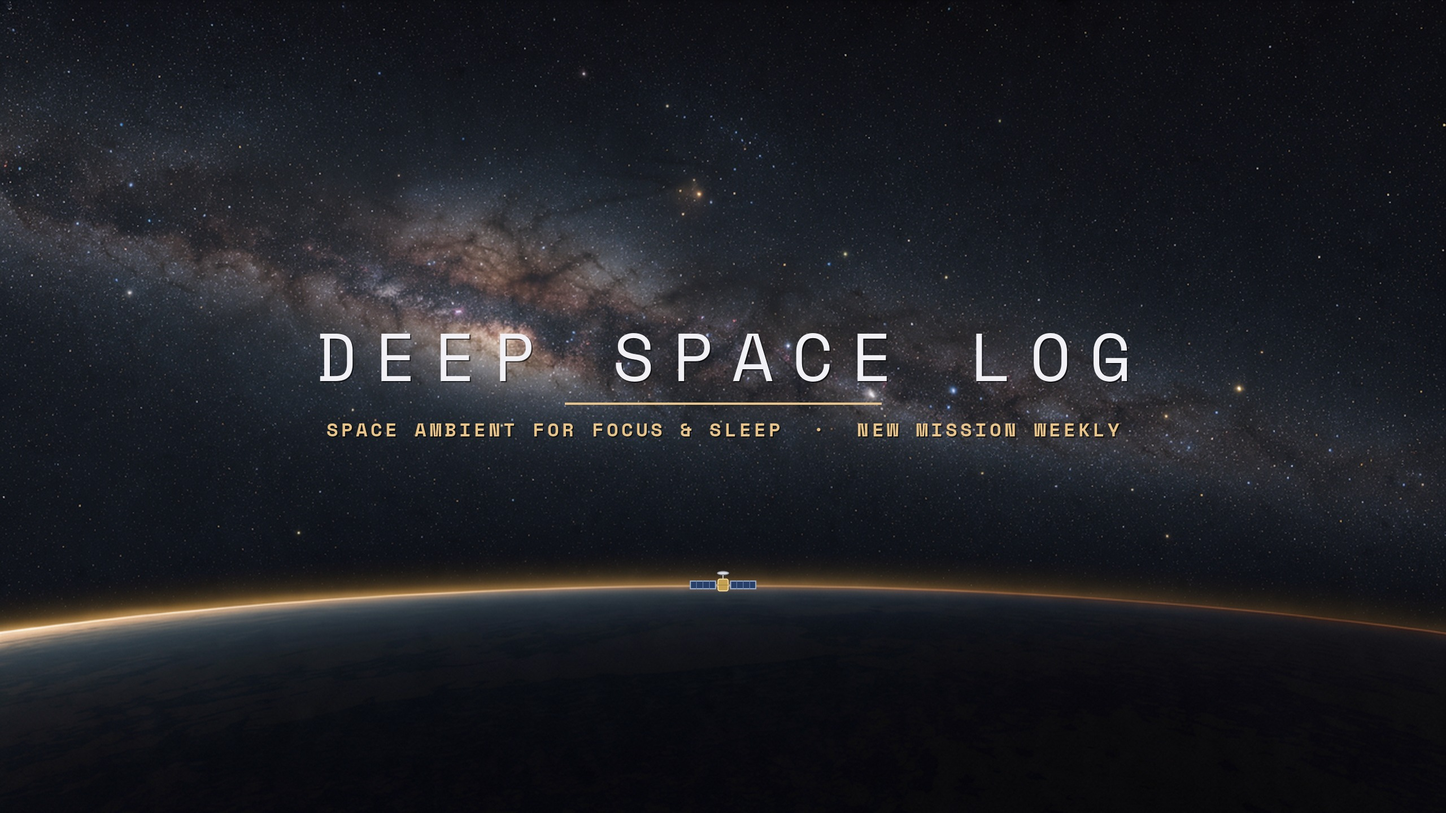
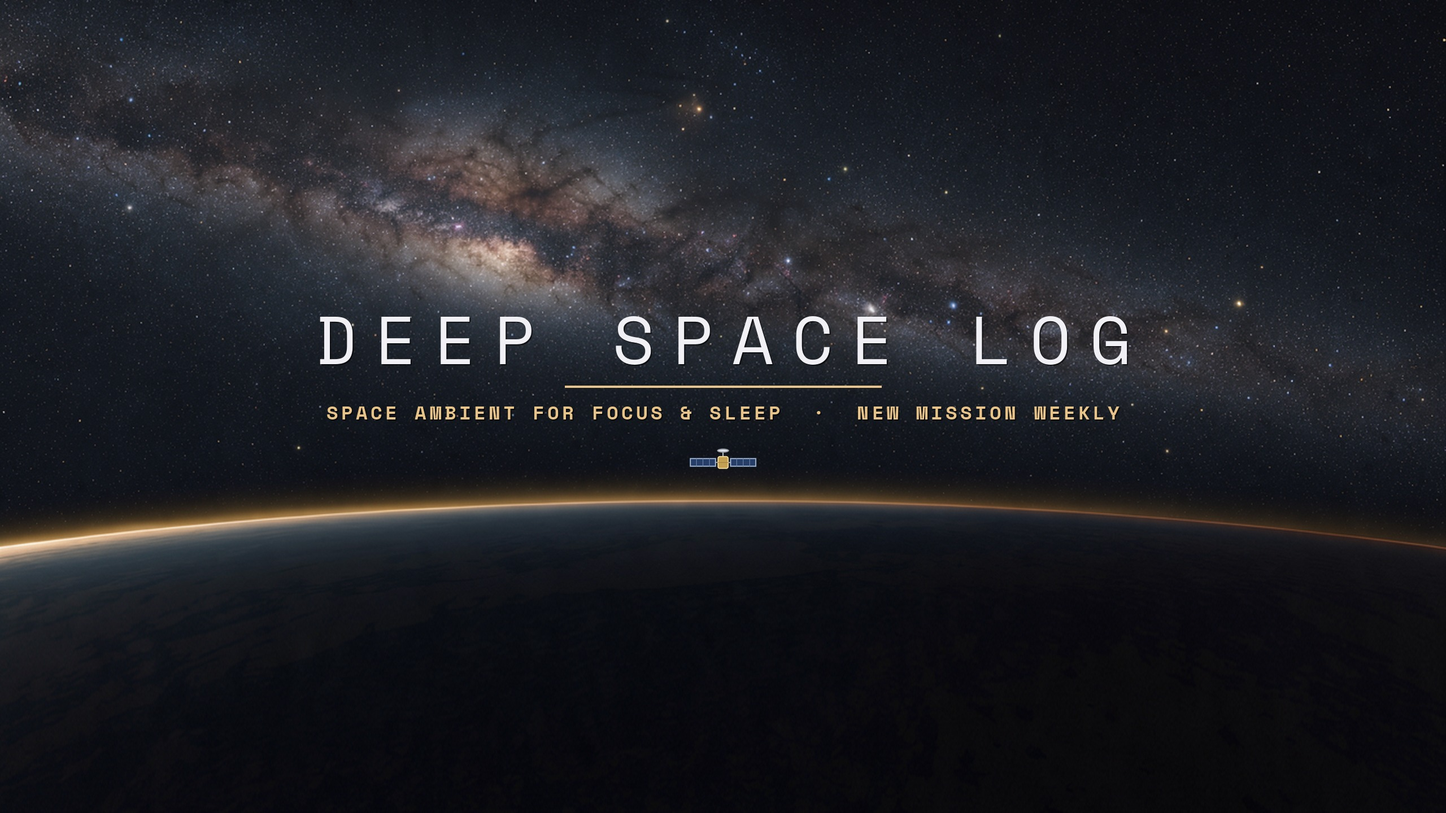
Deep Space Log: marka kiti denetimden geçti (G16, tur 2)
Tur 1 KALDI: filigranda PROBE-7 kesiliyordu, banner'da maskot ve ufuk görünen bandın dışındaydı, durum denetimden önce onaylandi yazıyordu. Marka tasarımcısı düzeltti; yeni denetçi tur 2'de GEÇTİ verdi (istasyon_marka.json). Sahibin onayı kit değiştiği için yeniden alınacak. Testler: 439 passed.

Claude-Session: https://claude.ai/code/session_014GmLB823RuZ5ABanAf1Sqd

Changed region(s): [[0.0, 0.0938, 1.0, 0.8438], [0.0, 0.0, 0.1875, 0.125], [0.4688, 0.125, 0.5, 0.1562]]

diff --git a/deepspace/marka_kiti.py b/deepspace/marka_kiti.py
@@ -19,6 +19,11 @@ from .sahne import probe_sprite
 KAYNAK = KOK / "marka" / "kaynak" / "A2.png"
 ALT_YAZI = "SPACE AMBIENT FOR FOCUS & SLEEP  ·  NEW MISSION WEEKLY"
 GUVENLI_ALAN = (1546, 423)  # YouTube banner'ında her cihazda görünen orta alan (2560x1440 içinde)
+# Banner kaynağı: ufuk kemeri güvenli banda girsin diye görsel yukarı kaydırılır (kaynağın 765 satırında 80 satır);
+# alttaki boşluk ufkun altındaki karanlık zeminin (640. satırdan sonrası) dikey esnetilmesiyle dolar.
+BANNER_KAYDIR, BANNER_ZEMIN = 80 / 765, 640 / 765
+BANNER_BASLIK_Y, BANNER_PROBE_Y, BANNER_PROBE_BOY = 510, 812, 70
+FILIGRAN_HALKA, FILIGRAN_PROBE = (6, 144), 68  # PROBE-7'nin panel uçları halkanın iç kenarından ~6 px içeride
 
 
 def _filtrele(img: Image.Image) -> Image.Image:
@@ -52,10 +57,21 @@ def _kirp_169(img: Image.Image) -> Image.Image:
     return img.crop((0, 0, W, min(H, h)))
 
 
+def _banner_kaynak(ana: Image.Image) -> Image.Image:
+    """16:9 kaynak, ufuk yukarıda: üstten BANNER_KAYDIR kırpılır, ufkun altındaki zemin esnetilerek boy korunur."""
+    k = _kirp_169(ana)
+    W, H = k.size
+    ust, kes = round(H * BANNER_KAYDIR), round(H * BANNER_ZEMIN)
+    yeni = Image.new("RGB", (W, H))
+    yeni.paste(k.crop((0, ust, W, kes)), (0, 0))
+    yeni.paste(k.crop((0, kes, W, H)).resize((W, H - (kes - ust)), Image.LANCZOS), (0, kes - ust))
+    return yeni
+
+
 def banner(ana: Image.Image) -> Image.Image:
-    b = _filtrele(_kirp_169(ana).resize((2560, 1440), Image.LANCZOS)).convert("RGBA")
-    _baslik(b, "DEEP SPACE LOG", ALT_YAZI, 540, 120, 34, 560)
-    probe_ekle(b, 2560 * 0.5, 1440 * 0.715, 70)
+    b = _filtrele(_banner_kaynak(ana).resize((2560, 1440), Image.LANCZOS)).convert("RGBA")
+    _baslik(b, "DEEP SPACE LOG", ALT_YAZI, BANNER_BASLIK_Y, 120, 34, 560)
+    probe_ekle(b, 2560 * 0.5, BANNER_PROBE_Y, BANNER_PROBE_BOY)
     return b
 
 
@@ -74,9 +90,10 @@ def filigran() -> Image.Image:
     """150x150 şeffaf video filigranı: PROBE-7 ve ince kehribar halka."""
     m = marka_yukle()["palet"]
     f = Image.new("RGBA", (150, 150), (0, 0, 0, 0))
-    ImageDraw.Draw(f).ellipse([6, 6, 144, 144], fill=(*rgb(m["arka"]), 150), outline=(*rgb(m["vurgu"]), 230),
+    a, z = FILIGRAN_HALKA
+    ImageDraw.Draw(f).ellipse([a, a, z, z], fill=(*rgb(m["arka"]), 150), outline=(*rgb(m["vurgu"]), 230),
                               width=3)
-    probe_ekle(f, 75, 75, 96)
+    probe_ekle(f, 75, 75, FILIGRAN_PROBE)
     return f
 
 

diff --git a/tests/test_deepspace.py b/tests/test_deepspace.py
@@ -1129,6 +1129,36 @@ def test_G16_kanal_kiti_kaynak_gorselden(tmp_path):
     assert (tmp_path / "banner.jpg").stat().st_size < 6 * 1024 * 1024  # YouTube banner sınırı
 
 
+def test_G16_filigran_probe_halkada_kenarlar_seffaf():
+    from PIL import Image
+    from deepspace import marka_kiti
+    a = np.asarray(marka_kiti.filigran())[..., 3]
+    assert max(a[0].max(), a[-1].max(), a[:, 0].max(), a[:, -1].max()) == 0  # kenarda kesilme yok
+    p = Image.new("RGBA", (150, 150), (0, 0, 0, 0))
+    marka_kiti.probe_ekle(p, 75, 75, marka_kiti.FILIGRAN_PROBE)
+    ys, xs = np.nonzero(np.asarray(p)[..., 3] > 0)
+    ic_r = (marka_kiti.FILIGRAN_HALKA[1] - marka_kiti.FILIGRAN_HALKA[0]) / 2 - 3
+    assert np.hypot(xs + 0.5 - 75, ys + 0.5 - 75).max() <= ic_r - 3  # panel uçları halkanın içinde
+
+
+def test_G16_banner_yazi_probe_ve_ufuk_gorunen_bantta():
+    from PIL import Image
+    from deepspace import marka_kiti
+    gx, gy = marka_kiti.GUVENLI_ALAN
+    x0, y0, x1, y1 = (2560 - gx) / 2, (1440 - gy) / 2, (2560 + gx) / 2, (1440 + gy) / 2
+    for ciz in (lambda k: marka_kiti._baslik(k, "DEEP SPACE LOG", marka_kiti.ALT_YAZI, marka_kiti.BANNER_BASLIK_Y,
+                                             120, 34, 560),
+                lambda k: marka_kiti.probe_ekle(k, 1280, marka_kiti.BANNER_PROBE_Y, marka_kiti.BANNER_PROBE_BOY)):
+        k = Image.new("RGBA", (2560, 1440), (0, 0, 0, 0))
+        ciz(k)
+        ys, xs = np.nonzero(np.asarray(k)[..., 3] > 0)
+        assert xs.min() >= x0 and xs.max() <= x1 and ys.min() >= y0 and ys.max() <= y1
+    ana = Image.open(KOK / "deepspace" / "marka" / "kaynak" / "A2.png").convert("RGB")
+    L = np.asarray(marka_kiti._banner_kaynak(ana).resize((2560, 1440)).convert("L"), float)
+    ufuk = 700 + int(L[700:1200, 1280].argmax())  # ufuk kemerinin parlak kenarı, ortada
+    assert marka_kiti.BANNER_PROBE_Y < ufuk <= y1
+
+
 def test_G15_komut_kilidi_cikis_3(tmp_path, monkeypatch, capsys):
     from deepspace import gorev as cli, is_kaydi
     monkeypatch.setattr(cli, "gorev_yukle", lambda k: (_gorev(tmp_path, no=2), AYAR))

diff --git a/deepspace/marka/README.md b/deepspace/marka/README.md
@@ -1,6 +1,7 @@
 # Deep Space Log marka kiti (G16)
 
-Sahibi 11 Kasım 2026'da onayladı. Renk seçimi bize bırakıldı: **A, film tonu yok** (`marka.toml [filtre] secim = ""`).
+Durum: denetimde. Sahibi 11 Kasım 2026'da taslağı onayladı; kesin kayıt denetçi GEÇTİ'den sonra `gorev marka --onay`
+ile yapılır. Renk seçimi bize bırakıldı: **A, film tonu yok** (`marka.toml [filtre] secim = ""`).
 Kehribar (`#e8c48a`) yalnız vurgu: başlık altı çizgi ve etiket.
 
 | Dosya | Ne | Kullanım |
@@ -15,5 +16,9 @@ Kehribar (`#e8c48a`) yalnız vurgu: başlık altı çizgi ve etiket.
 - Kapak şablonu (`yazi.kapak_katmani`, `marka.toml [sablon]`): ortada harf aralıklı ince başlık (Space Mono), kehribar
   çizgi ve kalın kehribar etiket, gökte küçük PROBE-7. 3 düzen: başlık üstte, başlık altta, etiket önde. En fazla 3
   kelime (G7): başlık seri adı (`DEEP FOCUS`), etiket süre (`2H`). Hedef adı ve görev numarası video başlığındadır.
+- Bilinen sınırlama: kapaktaki etiket (`2H`, 22 px) 168x94 önizlemede ~2 px kalır, orada okunmaz; şablon
+  değişikliği ayrı bir iş.
+- Banner: ufuk kemeri ve PROBE-7 her cihazda görünen bantta (y 508–931); bunun için kaynak yukarı kaydırılır,
+  ufkun altındaki zemin esnetilir (`marka_kiti._banner_kaynak`). Filigranda PROBE-7 halkanın içinde, kenarlar şeffaf.
 - Bu klasördeki her dosya (ve `marka.toml`) marka özetine girer; biri değişirse marka istasyonu yeniden denetlenir,
   sahibinin onayı yenilenir ve sonraki istasyonların kararları geçersiz olur. `taslak/` özete girmez.
